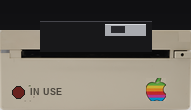
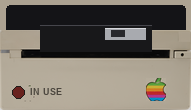
style(IIgs ui): inset the 3.5" drive's top band so the frame stays light
A full-bleed black strip above the face merged with the panel's 1px border, so at
high DPI the whole top of the bay read as one heavy frame and the filename plate
crossed the band's lower edge. The hard-card art already keeps a beige margin
around its band - copy that, and size the band to the plate's footprint.

Changed region(s): [[0.0, 0.0, 1.0, 0.2727], [0.2094, 0.1909, 0.8115, 0.2727], [0.5497, 0.3, 0.7853, 0.3818]]

diff --git a/AGENTS.md b/AGENTS.md
@@ -513,6 +513,10 @@ platform is ROM 03).
   and hard-card corner, which is also where the swapper badge lands); because the
   face is beige the filename needs `.disk-label-onlight`, which the Disk II and
   the hard card do not because their art is dark where the label lands.
+  The dark band above the drive face is **inset with a beige margin** (like the
+  hard card) and its footprint matches where `.disk-label` paints: a full-bleed
+  black strip fuses with the panel's 1px `.disk-image` border and the whole top
+  reads as one heavy frame, and the label plate then crosses the band's edge.
 - `iigsInitInterrupts()` runs on **cold boot only**. Ctrl-Reset must preserve low
   memory and `$03F2-$03F4`.
 - IIgs speed labels in the dropdown and in `linkbuilder` / MCP settings must match
